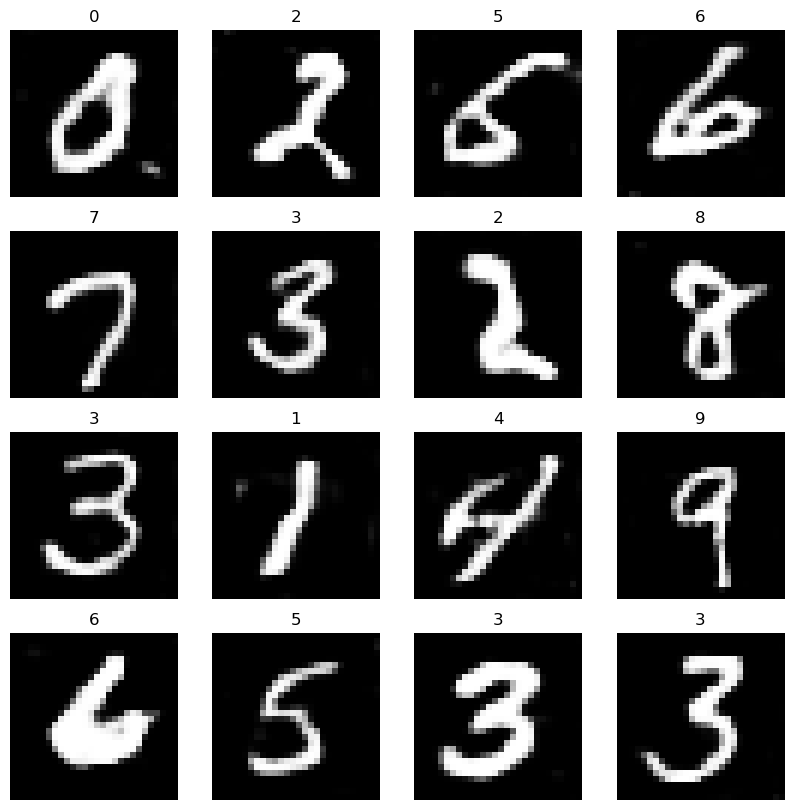
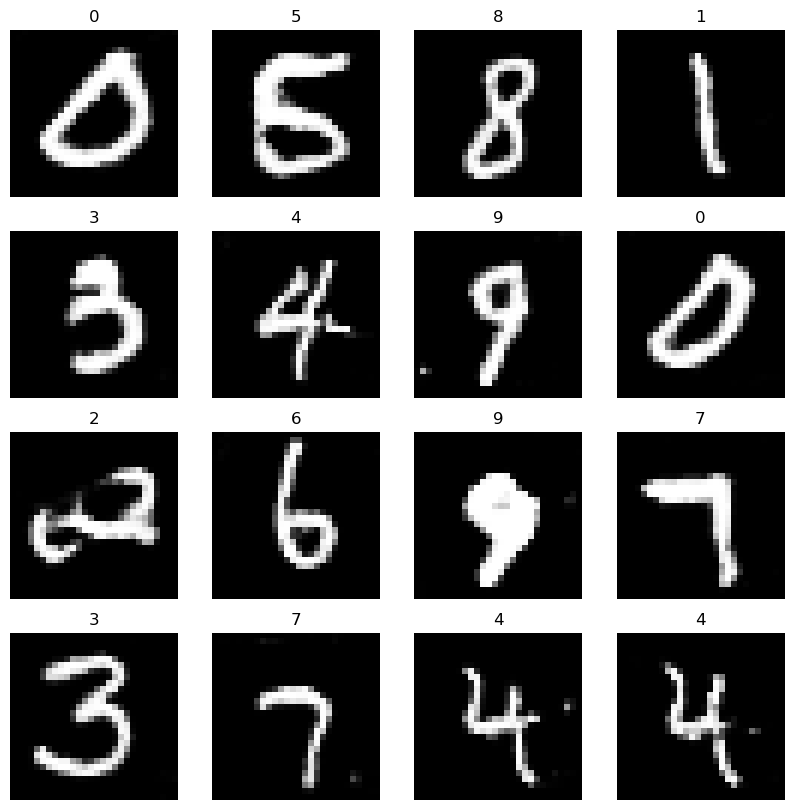
New cGAN training

diff --git a/models.py b/models.py
@@ -19,7 +19,8 @@ def get_generator(input_shape, conditional=False):
         model = Conv2D(num_filters, (3,3), padding='same', kernel_initializer=tf.initializers.HeNormal())(x)
         model = BatchNormalization()(model)
         model = LeakyReLU(alpha=0.1)(model)
-        model = UpSampling2D(size=(2,2), interpolation='bilinear')(model)
+        # model = UpSampling2D(size=(2,2), interpolation='bilinear')(model)
+        model = Conv2DTranspose(num_filters, (5,5), strides=(2,2), padding='same', kernel_initializer=tf.initializers.HeNormal())(model)
         return model
 
     model = block(model, 64) # --> [14,14,64]
